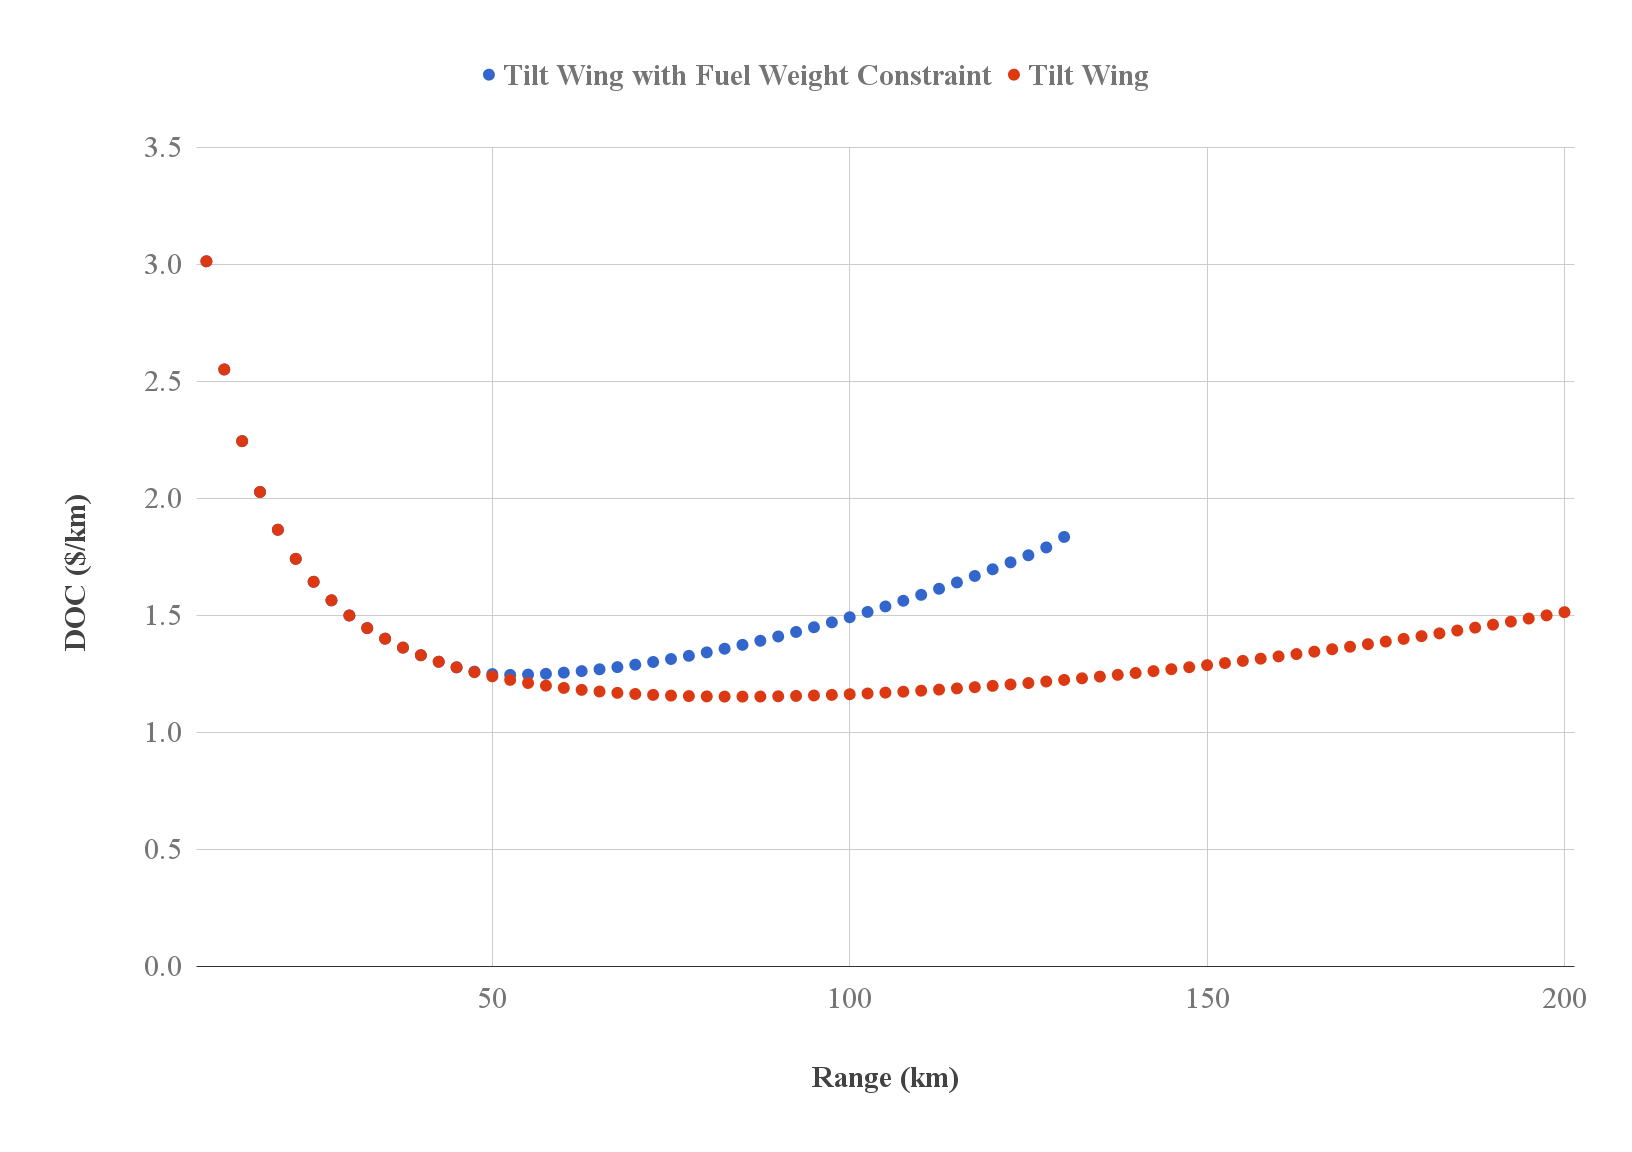
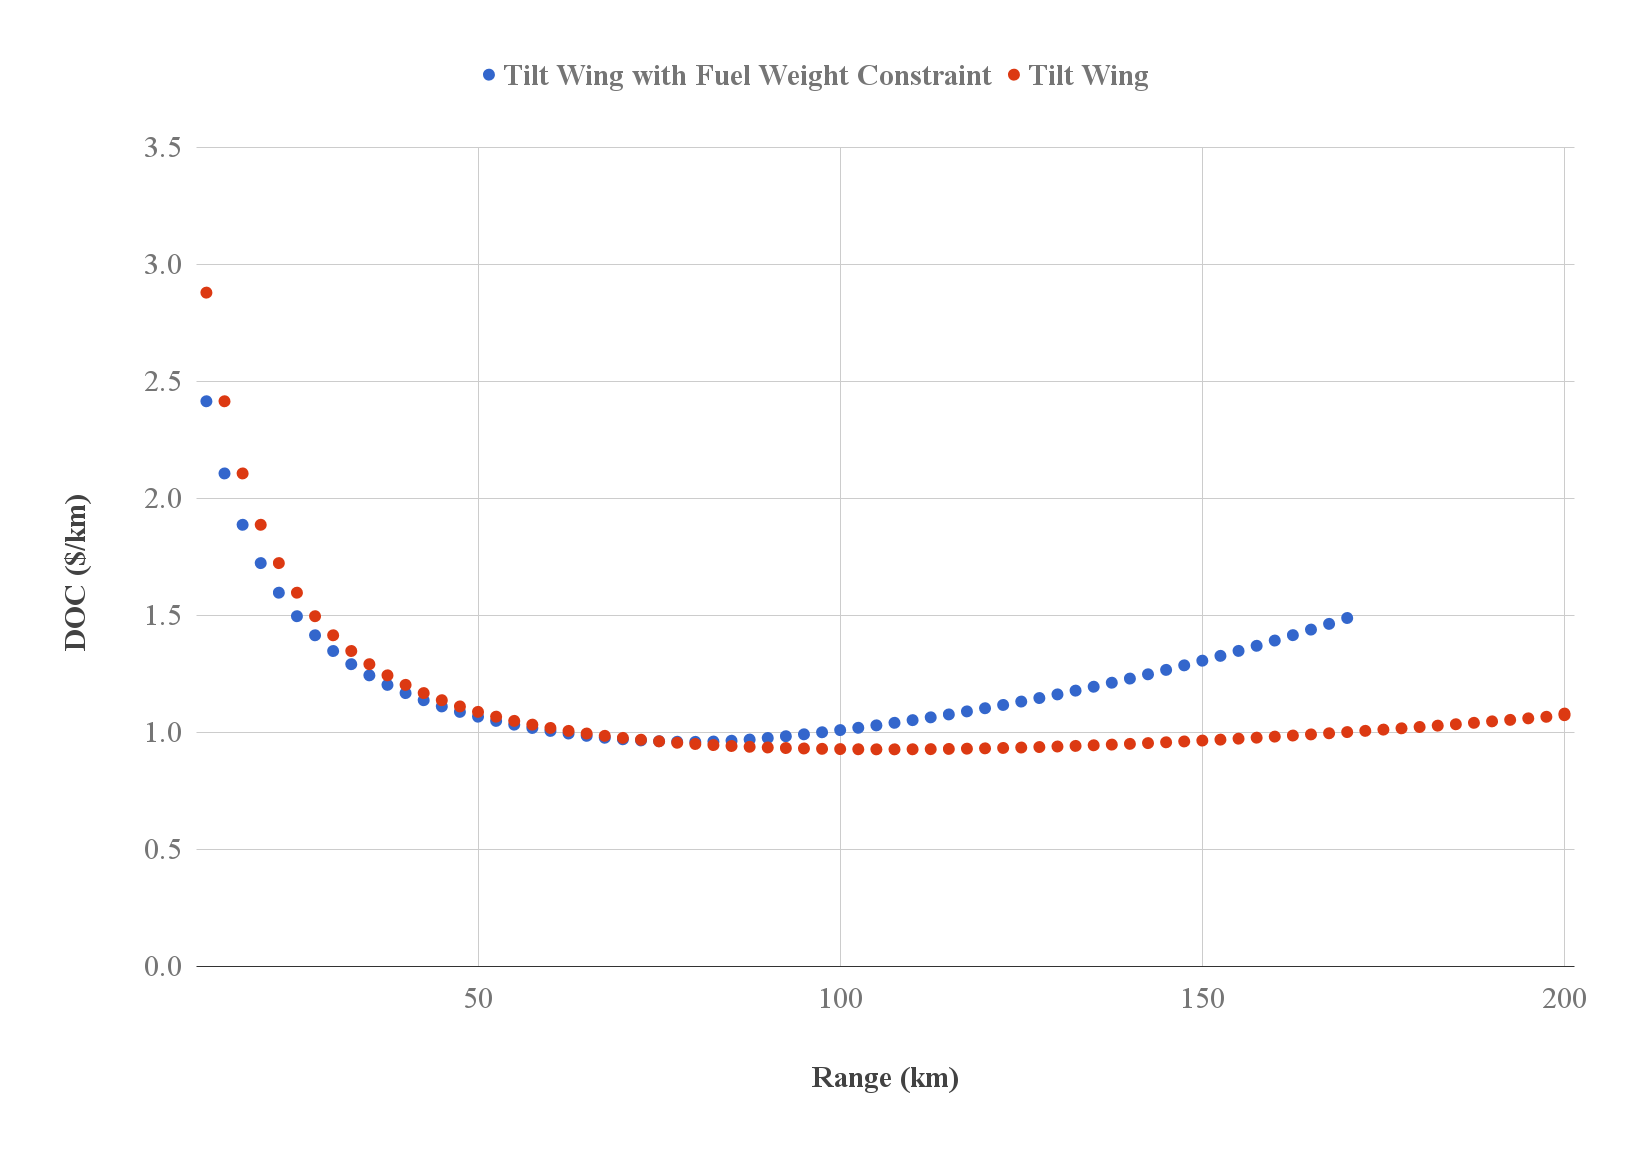
Update README.md after removing double-counting of fuselage drag.

diff --git a/README.md b/README.md
@@ -20,22 +20,24 @@ _An OpenMETA model for the conceptual design of an autonomous transport aircraft
 * [Future Plans](#future-plans-and-improvements-to-vahana-configuration-trade-study)
 
 ## Summary
-Inspired by Project Vahana from A³ by Airbus, we built OpenMETA models of the Vahana Tilt-Wing Multirotor aircraft using A³'s publicly released source code as a template. 
+Inspired by Project Vahana from A³ by Airbus, we built OpenMETA models of the Vahana Tilt-Wing Multirotor aircraft using A³'s publicly released source code as a template.
 
 A parametric CAD model of Vahana was also built within OpenMETA with the goal of using CAD analysis to improve the accuracy of future studies. The most recent draft of this CAD model is shown below with its rotors angled to transition between the hover and cruise modes.
 
 **Vahana CAD model:**
-  
+
 ![Image of 45 deg rotation](images/Vahana_V2_2.PNG "Image of Vahana transitioning from hover to cruise")
 
-The OpenMETA models were used to perform similar DOC analyses to those in the Vahana Configuration Trade Study as well as improve on the original study. 
+The OpenMETA models were used to perform similar DOC analyses to those in the Vahana Configuration Trade Study as well as improve on the original study.
 
 **OpenMETA 'Optimizer' Results and Vahana Trade Study Results for Tilt-Wing Configuration at Range of 100 km:**
 
 |                        | DOC ($) | DOC (km/$) | rProp (m) | cruiseSpeed (m/s) | batteryMass (kg) | motorMass (kg) | mtom (kg) |
 |:----------------------:|:-------:|:----------:|:---------:|:-----------------:|:----------------:|:--------------:|:---------:|
-| OpenMETA |   116.3  |    1.16    |    1.10   |        45.5       |        413       |      66.7      |    968    |
-|   Vahana Study   |  116.3  |    1.16    |    1.10   |        45.5       |        413       |      66.7      |    968    |
+| OpenMETA* |   92.78  |    0.93    |    0.98   |        48.6       |        304.2       |      55.6      |    799    |
+|   Vahana Study   |  92.78  |    0.93    |    0.98   |        48.6       |        304.2       |      55.6      |    799    |
+
+*after correcting for double fuselage drag typo
 
 **OpenMETA PET model results:**
 
@@ -46,13 +48,13 @@ DOC vs. Range for Tilt Wing Configuration with and without Fuel Weight Constrain
 ![tilt wing fuel_constraint doc vs. range comparison](images/openmeta-vahana-tilt-wing-fuel-weight-constraint.png)
 
 ## Vahana Configuration Trade Study
-Vahana is an A³ campaign to create a low-cost, single-passenger, electric VTOL aircraft. As part of their design process, A³ conducted the Vahana Configuration Trade Study to better examine 2 different configurations (an electric helicopter and an electric eight-fan tilt-wing) using multidisciplinary design optimization (MDO). 
+Vahana is an A³ campaign to create a low-cost, single-passenger, electric VTOL aircraft. As part of their design process, A³ conducted the Vahana Configuration Trade Study to better examine 2 different configurations (an electric helicopter and an electric eight-fan tilt-wing) using multidisciplinary design optimization (MDO).
 
-A³ set up a MDO sizing problem in which they compared an electric helicopter model and an electric eight-fan tilt-wing model over a range of operating distances (10 km to 200 km in 10 km steps). At each distance, both vehicle models were optimized seperately for Direct Operating Cost (DOC) by varying 5 design variables: Cruise Speed, Rotor Radius, Battery Mass, and Takeoff Mass. The A³ team also provided the optimizer with 3 constraint equations (4 if the vehicle was a helicopter) that defined certain design requirements _(e.g.: the vehicle's effective energy capacity had to be greater than the amount of energy required to execute a reserve ("worst case") mission)_. 
+A³ set up a MDO sizing problem in which they compared an electric helicopter model and an electric eight-fan tilt-wing model over a range of operating distances (10 km to 200 km in 10 km steps). At each distance, both vehicle models were optimized seperately for Direct Operating Cost (DOC) by varying 5 design variables: Cruise Speed, Rotor Radius, Battery Mass, and Takeoff Mass. The A³ team also provided the optimizer with 3 constraint equations (4 if the vehicle was a helicopter) that defined certain design requirements _(e.g.: the vehicle's effective energy capacity had to be greater than the amount of energy required to execute a reserve ("worst case") mission)_.
 
 As a result of their Sizing Trade Study, the Vahana team concluded that an eight-fan, tilt-wing configuration would best meet their broad design requirements for a low-cost, single-passenger, electric VTOL aircraft.
 
-## OpenMETA Vahana Configuration Trade Study 
+## OpenMETA Vahana Configuration Trade Study
 Here at MetaMorph, we set out to first replicate the Vahana Configuration Trade Study's results using the OpenMETA toolset. Since OpenMETA is designed for Multidisciplinary Design Analysis and Optimization, we thought that it would be interesting to see if we could reproduce the A³'s results using the OpenMETA toolset.
 
 To read about the OpenMETA Vahana Configuration Trade Study, check out our [blog post](https://www.metamorphsoftware.com/blog/2017/8/31/openmeta-vahana-case-study-part-i).
@@ -74,7 +76,7 @@ of the tools!*
 For Windows:  
 1. Download `XFOIL6.99.zip` (Xfoil 6.99 for Windows) from http://web.mit.edu/drela/Public/web/xfoil/.
 1. Extract the contents of `XFOIL6.99.zip` to `C:/OpenMETA/xfoil-and-nrel-codes/bin/` (you may need to create this directory).
-  
+
 For Mac:  
 1. Download `xfoil.dmg` (Independent 3rd-party build of Xfoil for Mac) from http://xfoil4mac.altervista.org/.
 1. Drag-and-drop `Xfoil.app` into your Applications folder.
@@ -135,8 +137,8 @@ The following PETs are included in the openmeta-vahana project in the `RootFolde
 | *Parametric Study*                  | *This PET explores the Tilt-Wing model design space via a parametric study*     |
 |:------------------------------------|:--------------------------------------------------------------------------------|
 | TiltWingParametricStudyPET          | Base model                                                                      |
-  
-  
+
+
 #### Helicopter Model
 | *Parametric Study + Optimizer*      | *These PETs optimize the Helicopter model for DOC over a series of ranges*      |
 |:------------------------------------|:--------------------------------------------------------------------------------|
@@ -195,18 +197,18 @@ The model (shown below) is based on the sketches of the Tilt-Wing configuration 
 The model assembly is located at `RootFolder/ComponentAssemblies/Vahana2` within openmeta-vahana.xme. By changing the values of the `Canard_Rotation` and `Wing_Rotation` parameters, a user can be change the orientation for a specific analysis. The `rProp` parameter allows the user to change vary the length of the propeller blades. Changing the propeller blade radius also changes the span of both flight surfaces as well as the positions of the rotors in order to maintain an appropriate spacing between the neighboring rotors.
 
 ### Iterative Mass Calculations
-When exploring the Vahana model's design space with the TiltWingParametricStudyPET, we observed that less than 0.04% of the design generated met our design requirements. 
+When exploring the Vahana model's design space with the TiltWingParametricStudyPET, we observed that less than 0.04% of the design generated met our design requirements.
 This low success rate was primarily caused by designs failing the first two design constraints:
 
-* The vehicle battery must contain more energy than the energy required to complete the reserve mission 
+* The vehicle battery must contain more energy than the energy required to complete the reserve mission
 * The vehicle motors must be capable of providing at least 1.7 times the maximum power required for hover mode
 
-The Vahana Trade Study set battery mass and motor mass as design variables while using assumed values for battery specific energy and motor specific power. 
-Since 95% of all 'Parameter Study' PET runs failed as a result of the first two constraints, we looked into making battery mass and motor mass dependent 
+The Vahana Trade Study set battery mass and motor mass as design variables while using assumed values for battery specific energy and motor specific power.
+Since 95% of all 'Parameter Study' PET runs failed as a result of the first two constraints, we looked into making battery mass and motor mass dependent
 variables which could be solved using an iterative method and the other design variables.
 
-Using Euler's linear method of numerical integration (method shown [here](https://docs.google.com/spreadsheets/d/170VYNoF4OTg8ZG605DoPC1EO5k4rxNIF8a00Ac6IGiI/edit?usp=sharing)) 
-the required battery mass and motor mass can be solved for within 0.01% of the theoretical value in 10 interation for ranges up to ten times larger than the assumed payload of 150 kg. 
+Using Euler's linear method of numerical integration (method shown [here](https://docs.google.com/spreadsheets/d/170VYNoF4OTg8ZG605DoPC1EO5k4rxNIF8a00Ac6IGiI/edit?usp=sharing))
+the required battery mass and motor mass can be solved for within 0.01% of the theoretical value in 10 interation for ranges up to ten times larger than the assumed payload of 150 kg.
 A future model may implement these mass calculations in order to allow a more efficient parametric exploration of the design space.
 
 <!-- Image isn't in images/ ...
